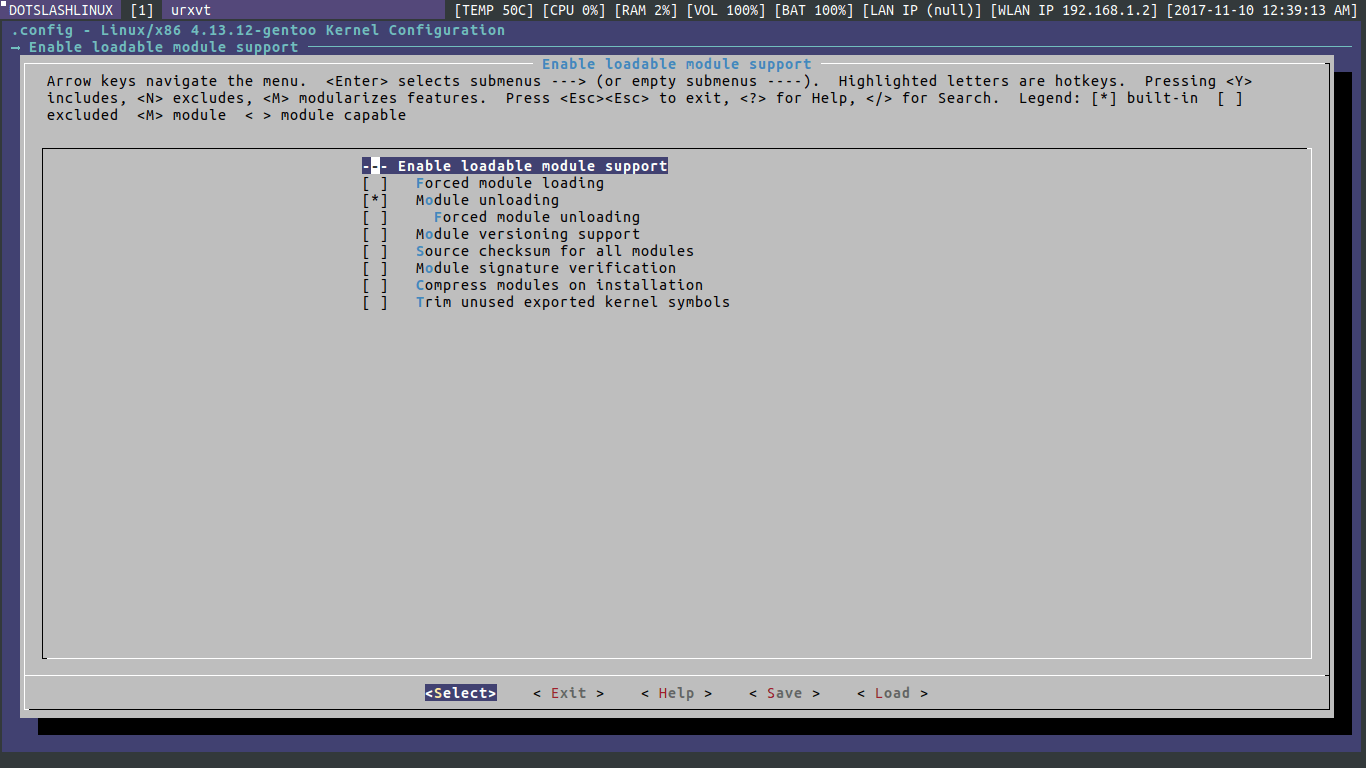
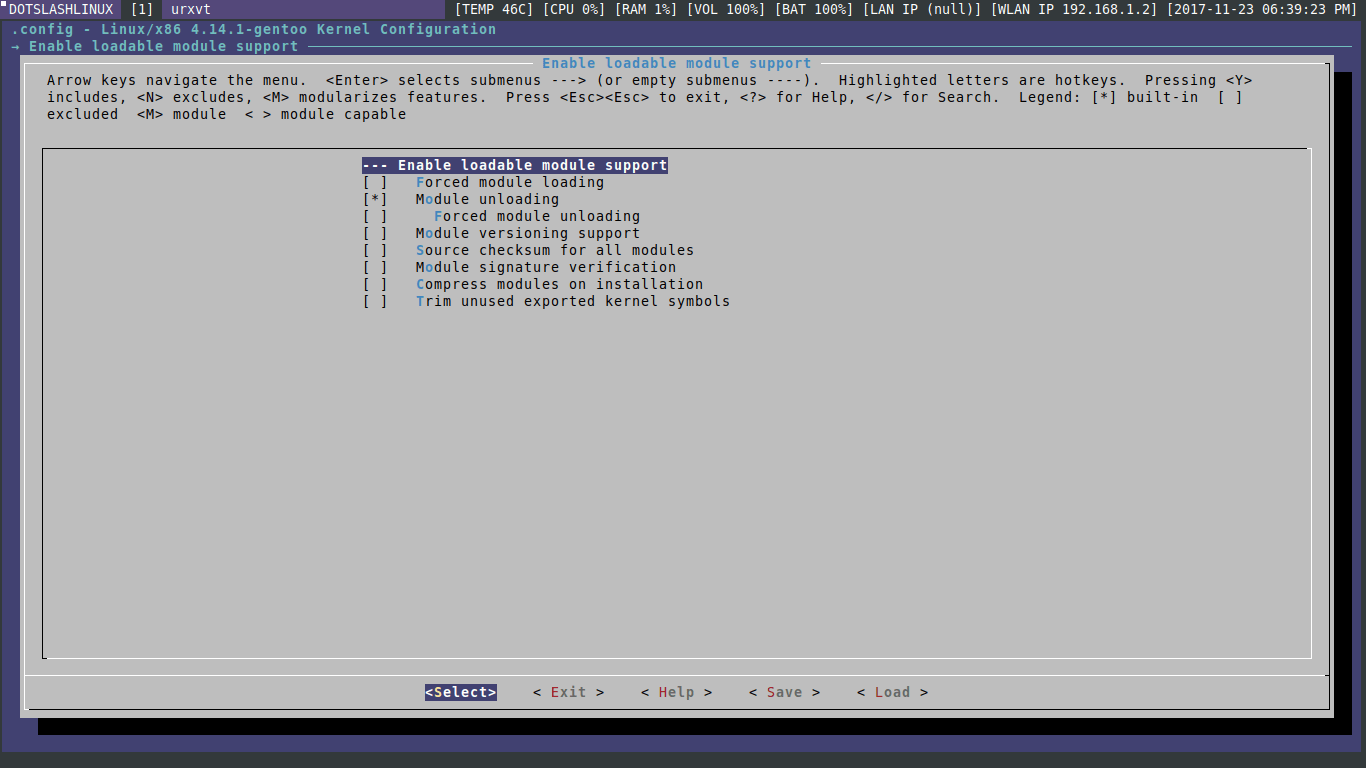
Upgraded Kernel Version

diff --git a/layouts/_default/single.html b/layouts/_default/single.html
@@ -3,9 +3,9 @@
 <div class="box kernelmap">
   <pre><code class="language-properties">Kernel Sources:       sys-kernel/gentoo-sources
 
-Kernel Version:       4.13.12
+Kernel Version:       4.14.1
 
-Last Updated on:      09/11/2017
+Last Updated on:      23/11/2017
 
 Update Notice:        1- Excluded swap options (in DOTSLASHLINUX.config only and not in the guides)
                       2- Removed 32-bit support (in DOTSLASHLINUX.config only and not in the guides)
@@ -21,15 +21,15 @@ Priorities:           1- high performance
 
 Configuration File:   https://www.dotslashlinux.com/dotfiles/kernel/DOTSLASHLINUX.config
 
-Total Options:        2636 (grep -c 'CONFIG_' DOTSLASHLINUX.config)
+Total Options:        2645 (grep -c 'CONFIG_' DOTSLASHLINUX.config)
 
-Included Options:     735 (grep -c '=y' DOTSLASHLINUX.config)
+Included Options:     740 (grep -c '=y' DOTSLASHLINUX.config)
 
-Excluded Options:     1837 (grep -c 'is not set' DOTSLASHLINUX.config)
+Excluded Options:     1841 (grep -c 'is not set' DOTSLASHLINUX.config)
 
-Final Size (LZ4):     5,488,592 Bytes
+Final Size (LZ4):     6,492,112 Bytes
 
-Total Patches:        1 (UKSM-4.13 Patch) (https://github.com/dolohow/uksm/blob/master/uksm-4.13.patch)
+Total Patches:        1 (UKSM-4.14 Patch) (https://github.com/dolohow/uksm/blob/master/uksm-4.14.patch)
 
 Contributors:         Firas Khalil Khana [irc: firas] [email: firasuke@gmail.com]
 
